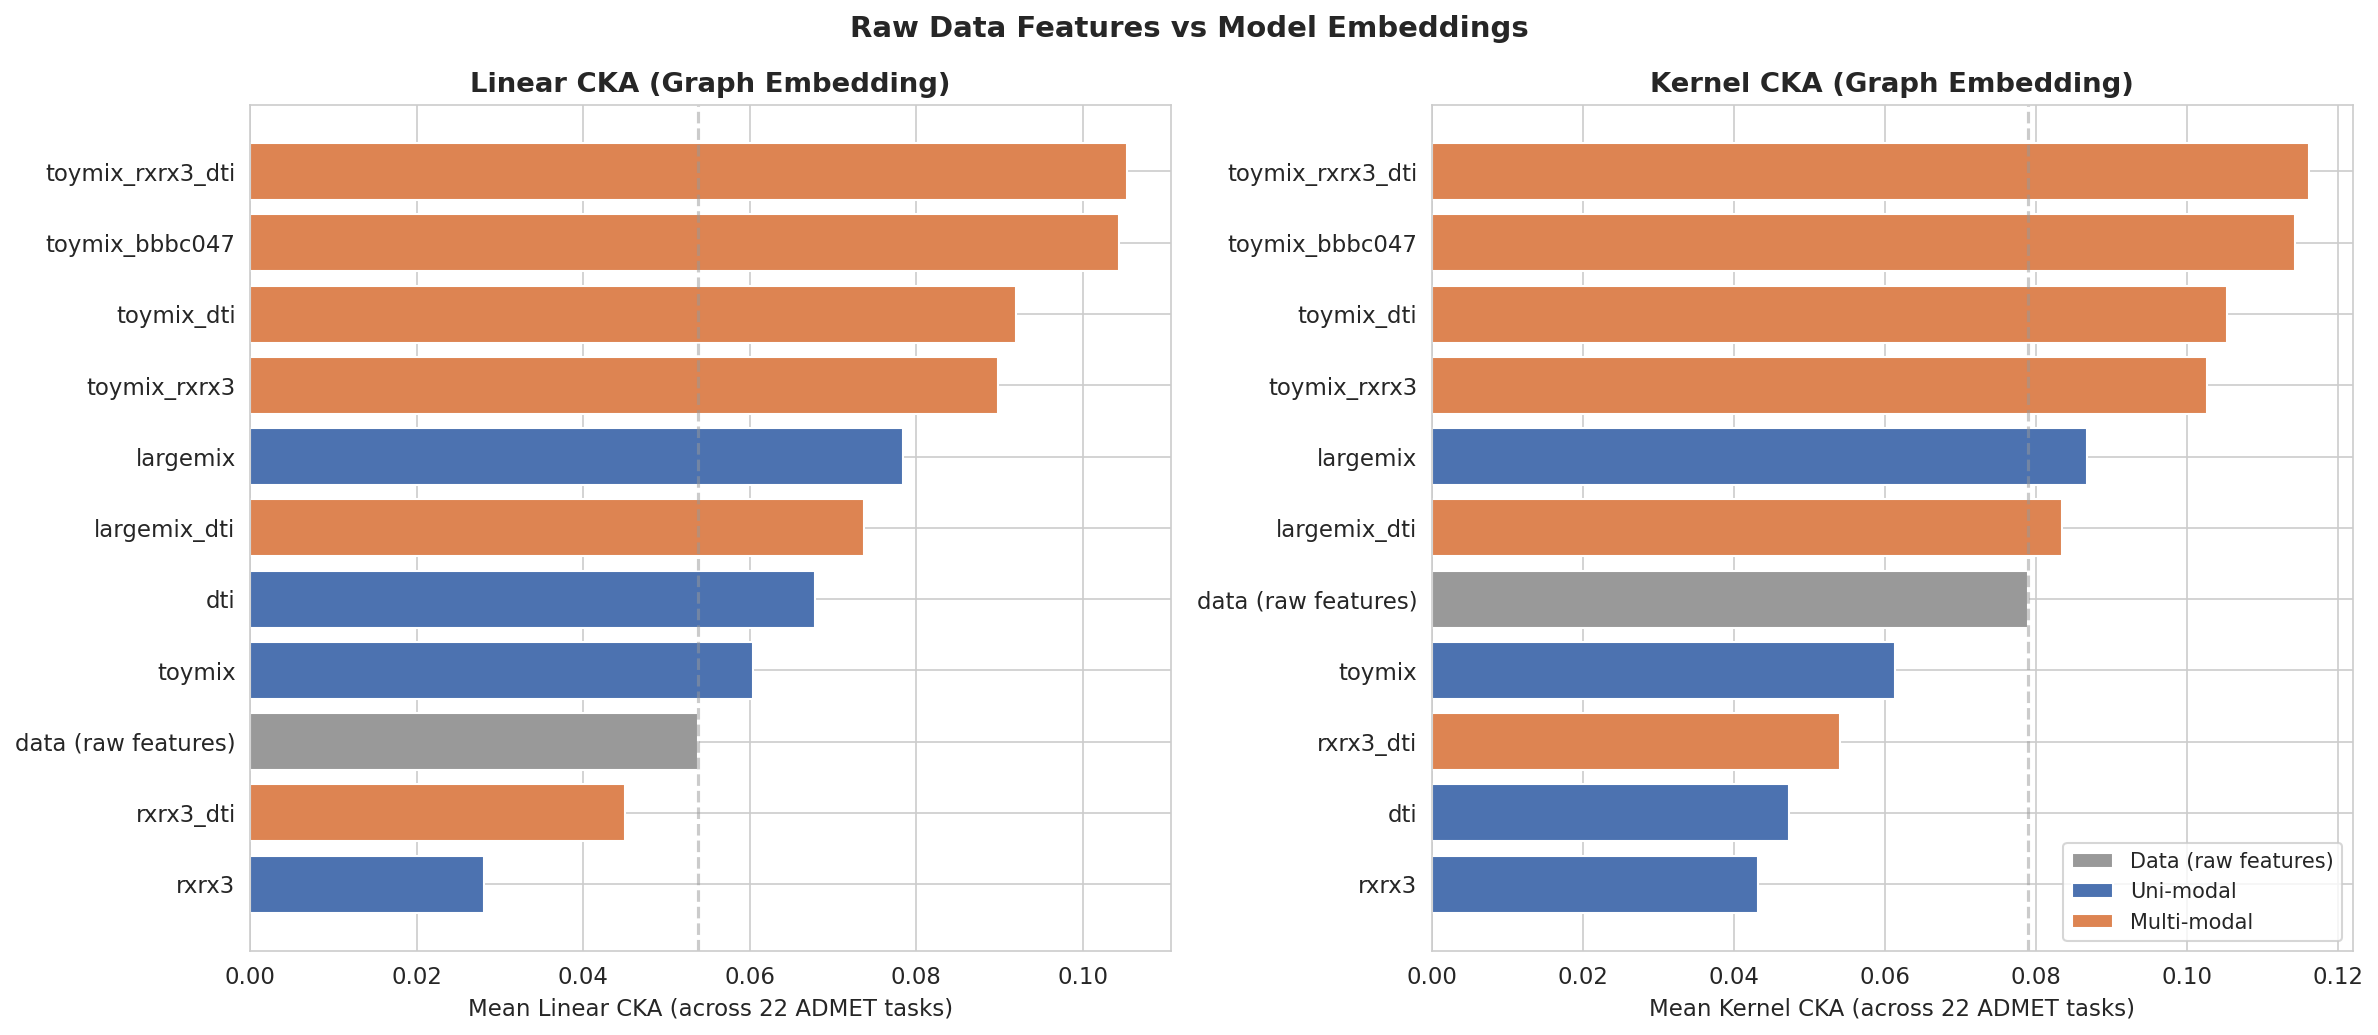
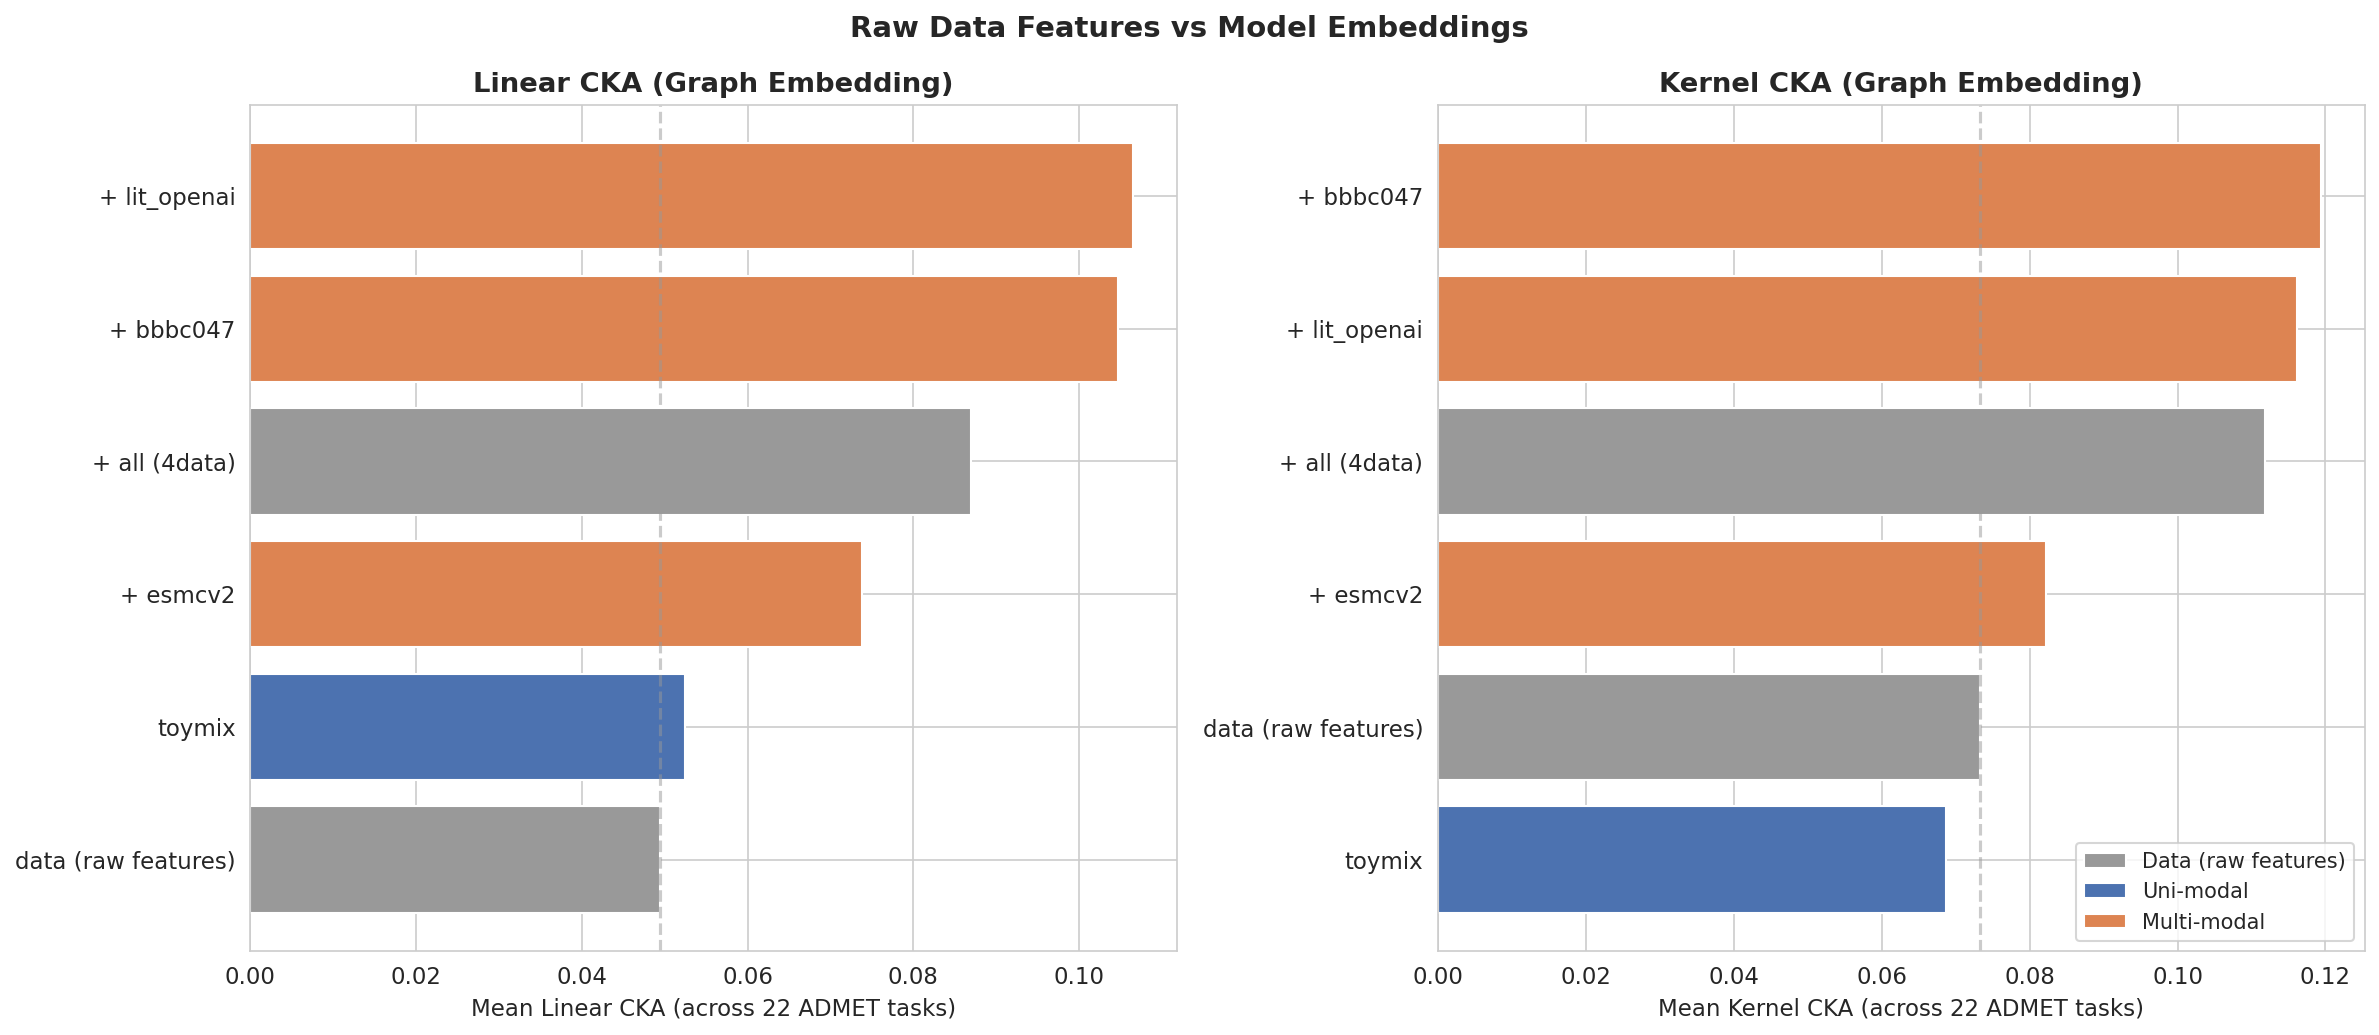
upd - configs

diff --git a/graphium/trainer/predictor.py b/graphium/trainer/predictor.py
@@ -73,6 +73,7 @@ class PredictorModule(lightning.LightningModule):
         global_bs: Optional[int] = 1,
         adaptive_modality_dropout: Optional[Dict[str, Any]] = None,
         boltz_repa_kwargs: Optional[Dict[str, Any]] = None,
+        repa_intermediate_kwargs: Optional[Dict[str, Any]] = None,
     ):
         """
         The Lightning module responsible for handling the predictions, losses, metrics, optimization, etc.
@@ -195,6 +196,55 @@ class PredictorModule(lightning.LightningModule):
                 self._boltz_repa_capture_layer = None
         else:
             self._boltz_repa_capture_layer = None
+
+        # ── Mid-layer REPA alignment for multi-modal pretraining ────────────
+        # Aligns a configurable mid-layer pair representation against per-task
+        # precomputed embeddings via cosine. Same capture-layer mechanism as
+        # boltz_repa, just at a configurable mid-layer depth and with multiple
+        # per-task projectors. See nn/losses/repa_intermediate.py.
+        self.repa_intermediate_loss = None
+        self._repa_intermediate_capture_layer = None
+        if repa_intermediate_kwargs is not None:
+            from graphium.nn.losses.repa_intermediate import RepaIntermediateAlignment
+
+            cfg_ri = dict(repa_intermediate_kwargs)
+            capture_layer = int(cfg_ri.pop("capture_layer"))
+            d_pair = int(cfg_ri.pop("d_pair"))
+            tasks_cfg = cfg_ri.pop("tasks")
+            self.repa_intermediate_loss = RepaIntermediateAlignment(
+                d_pair=d_pair,
+                tasks=tasks_cfg,
+            )
+            try:
+                from mup import set_base_shapes
+
+                set_base_shapes(
+                    self.repa_intermediate_loss,
+                    self.repa_intermediate_loss,
+                    rescale_params=False,
+                )
+            except ImportError:
+                pass
+
+            gnn = getattr(self.model, "gnn", None)
+            if gnn is not None and hasattr(gnn, "_pair_capture_layers"):
+                depth = len(gnn.layers)
+                if capture_layer < 0:
+                    capture_layer = depth + capture_layer
+                if not (0 <= capture_layer < depth):
+                    raise ValueError(
+                        f"repa_intermediate_kwargs.capture_layer={capture_layer} "
+                        f"out of range for GNN depth {depth}"
+                    )
+                capture = set(gnn._pair_capture_layers or set())
+                capture.add(capture_layer)
+                gnn._pair_capture_layers = capture
+                self._repa_intermediate_capture_layer = capture_layer
+            else:
+                raise ValueError(
+                    "repa_intermediate_kwargs requires the model to expose "
+                    "gnn._pair_capture_layers (e.g. PairMixer trunk)."
+                )
 
         loss_fun = {
             self._get_task_key(task_level=task_levels[key], task=key): value
@@ -509,6 +559,28 @@ class PredictorModule(lightning.LightningModule):
             present,
         )
 
+    def _compute_repa_intermediate_loss(
+        self, batch: Dict[str, Any], targets: Dict[str, torch.Tensor]
+    ) -> Optional[torch.Tensor]:
+        """Compute REPA cosine alignment on a mid-layer pair representation
+        against precomputed per-modality target embeddings (DTI ESM-C,
+        LPM-24 OpenAI, BBBC047 Cell Painting).
+        """
+        feats = batch.get("features")
+        if feats is None or self._repa_intermediate_capture_layer is None:
+            return None
+        stack = getattr(feats, "pair_feat_stack", None)
+        if stack is None or self._repa_intermediate_capture_layer not in stack:
+            return None
+        pair_feat = stack[self._repa_intermediate_capture_layer]  # (B, N, N, D_z)
+        pair_mask = getattr(feats, "pair_mask", None)
+        if pair_mask is None:
+            from torch_geometric.utils import to_dense_batch
+
+            _, node_mask = to_dense_batch(feats.x, feats.batch)
+            pair_mask = node_mask.unsqueeze(2) & node_mask.unsqueeze(1)
+        return self.repa_intermediate_loss(pair_feat, pair_mask, targets)
+
     def _general_step(self, batch: Dict[str, Tensor], step_name: str, to_cpu: bool) -> Dict[str, Any]:
         r"""Common code for training_step, validation_step and testing_step"""
         self._split_aux_from_labels(batch)
@@ -565,6 +637,12 @@ class PredictorModule(lightning.LightningModule):
             repa_loss = self._compute_boltz_repa_loss(batch)
             if repa_loss is not None:
                 loss = loss + repa_loss.to(loss.device)
+
+        # Mid-layer REPA alignment loss (training only).
+        if step_name == "train" and self.repa_intermediate_loss is not None:
+            mid_repa_loss = self._compute_repa_intermediate_loss(batch, targets_dict)
+            if mid_repa_loss is not None:
+                loss = loss + mid_repa_loss.to(loss.device)
 
         device = "cpu" if to_cpu else None
         for task in preds:
